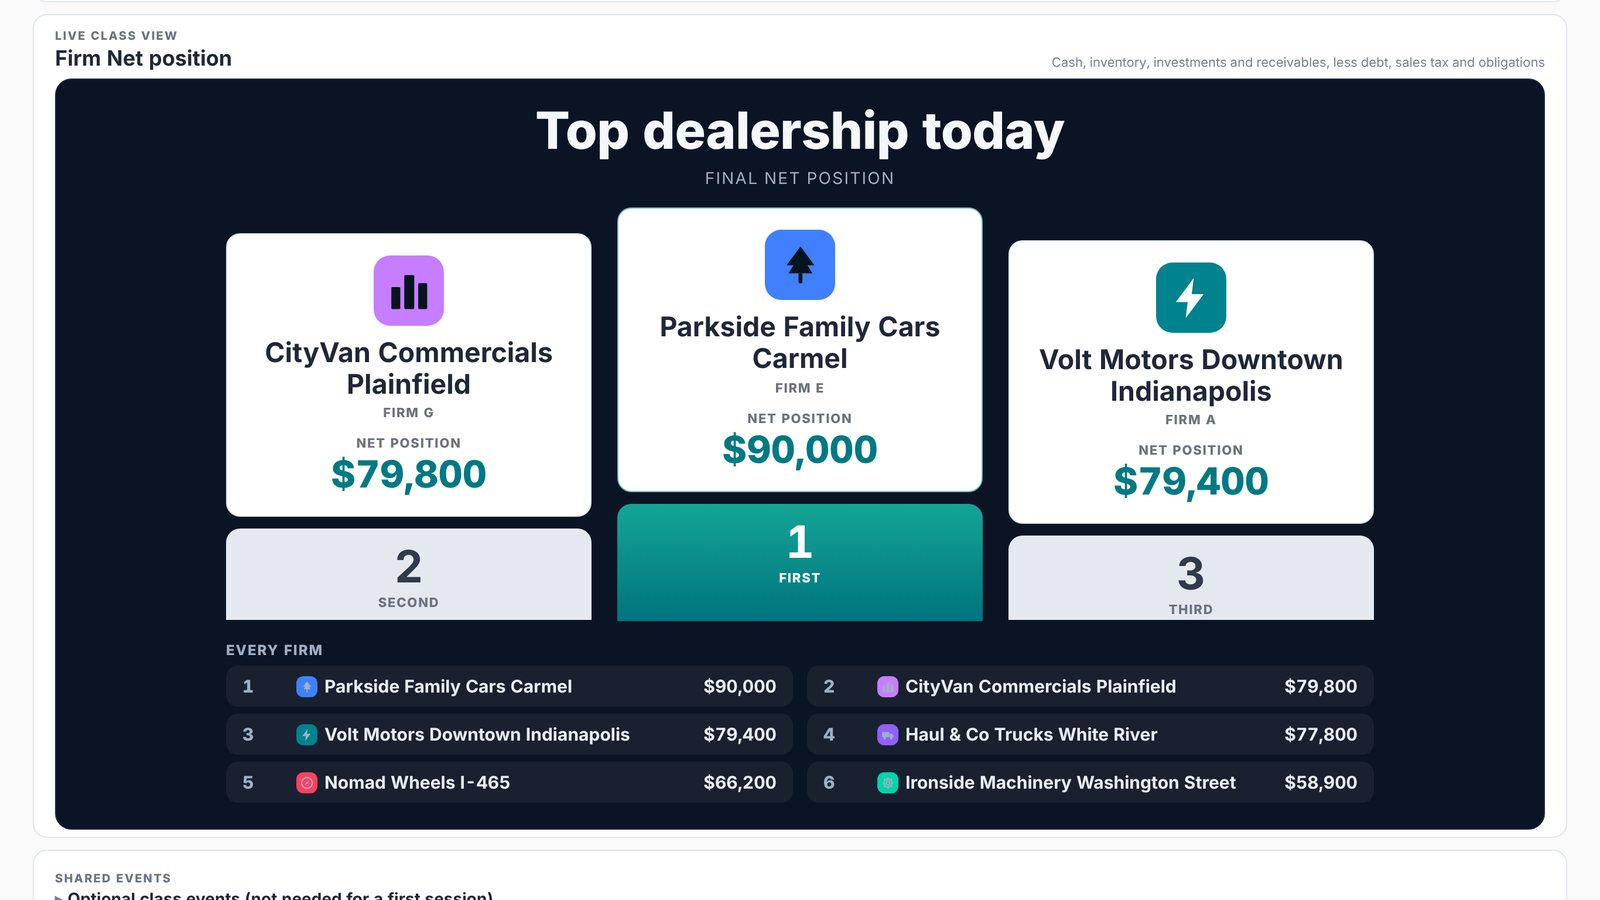
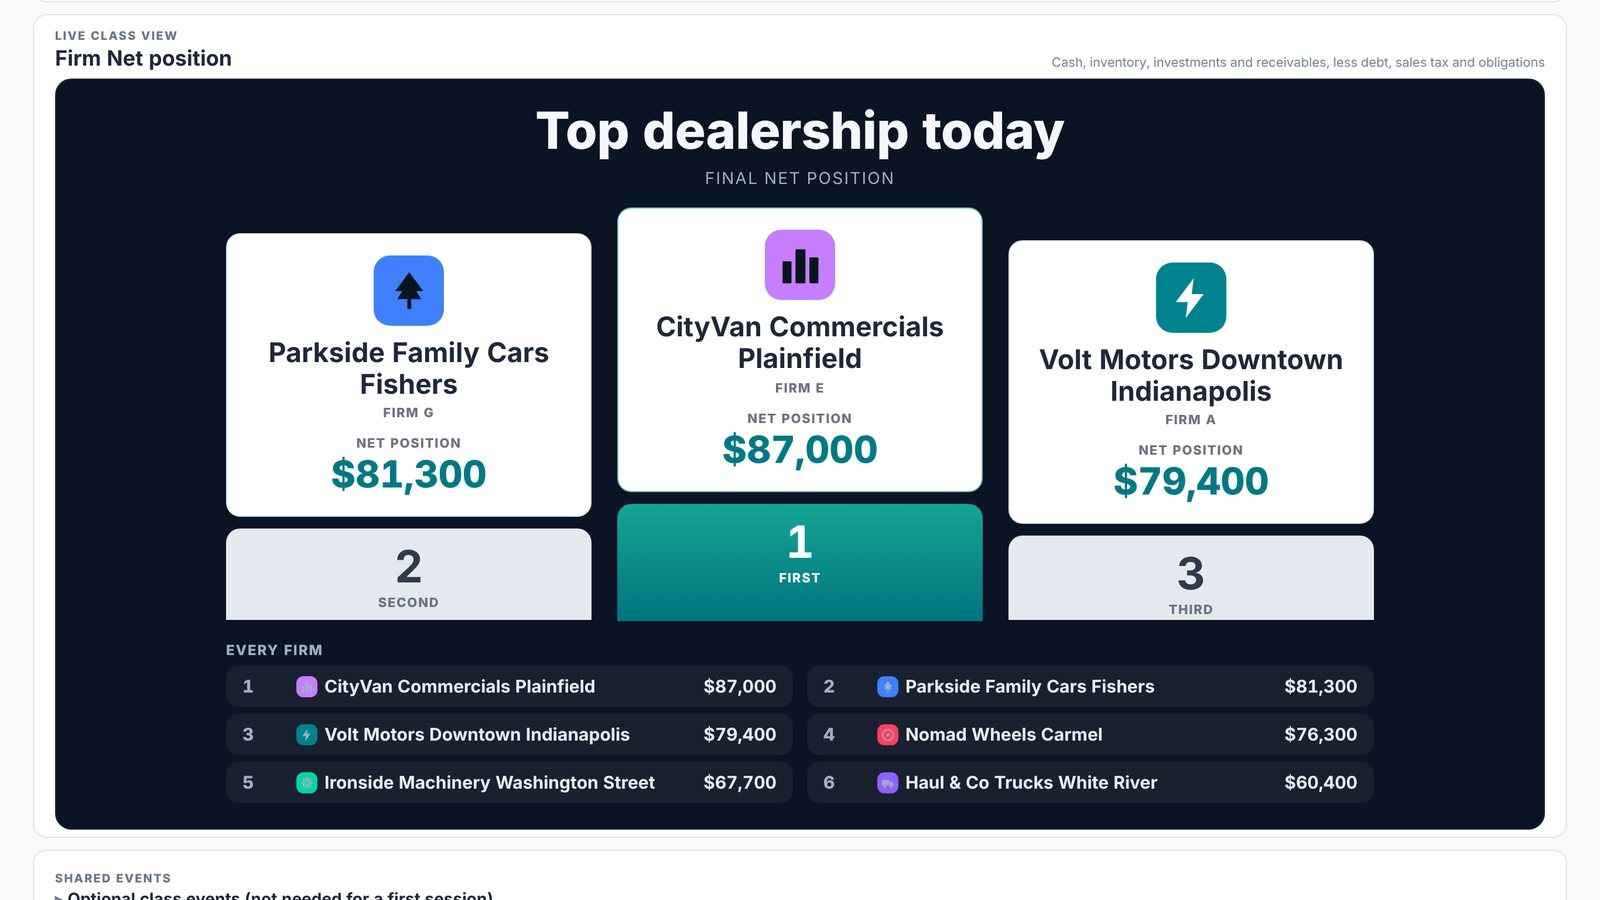
US page: teacher chart and podium pictures re-taken from the live game (5f7d0bec); Nomad Wheels now at Carmel, not I-465; fresh ?v=20261104n
Every firm-place pair in both pictures is one lib/motor-locations.js allows:
CityVan Commercials Plainfield, Parkside Family Cars Fishers, Volt Motors
Downtown Indianapolis, Nomad Wheels Carmel, Ironside Machinery Washington
Street, Haul & Co Trucks White River. Same size (1600x900), JPEG quality 84,
same framing as before.

Claude-Session: https://claude.ai/code/session_01Np2n7mwxyzcaQWByNZ1ReD

diff --git a/us/index.html b/us/index.html
@@ -582,11 +582,11 @@
         <figcaption>One costed attack per round, and the target firm finds out.</figcaption>
       </figure>
       <figure class="motor-gal-item">
-        <img src="/assets/tbs-web/us/us-g-teacher.jpg?v=20261102n" width="1600" height="900" loading="lazy" decoding="async" alt="Teacher page with the clock, pause and stop, and the net position of every firm" />
+        <img src="/assets/tbs-web/us/us-g-teacher.jpg?v=20261104n" width="1600" height="900" loading="lazy" decoding="async" alt="Teacher page with the clock, pause and stop, and the net position of every firm" />
         <figcaption>The whole class on one page, with pause and stop one click away.</figcaption>
       </figure>
       <figure class="motor-gal-item">
-        <img src="/assets/tbs-web/us/us-g-podium.jpg?v=20261102n" width="1600" height="900" loading="lazy" decoding="async" alt="The podium at the end: the top three firms and every firm's final net position" />
+        <img src="/assets/tbs-web/us/us-g-podium.jpg?v=20261104n" width="1600" height="900" loading="lazy" decoding="async" alt="The podium at the end: the top three firms and every firm's final net position" />
         <figcaption>At the end the podium shows the winner.</figcaption>
       </figure>
     </div>
